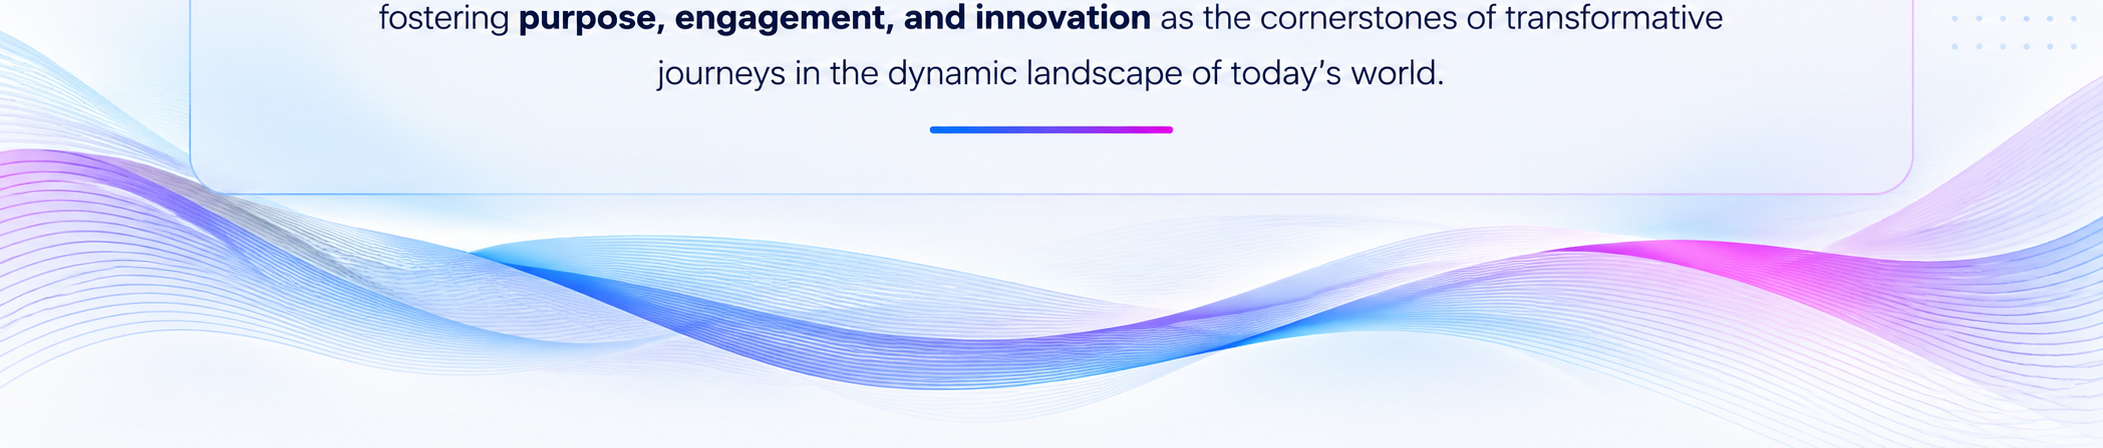
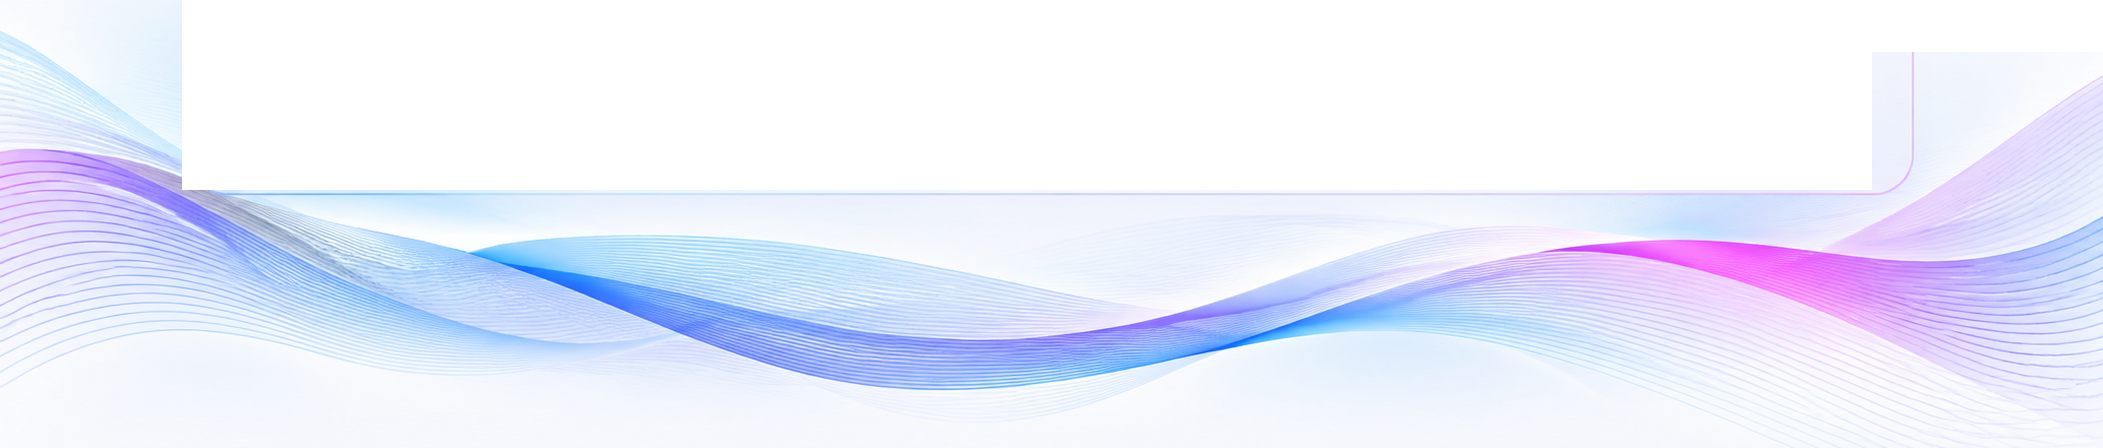
Remove duplicate frame from quote artwork

diff --git a/app/globals.css b/app/globals.css
@@ -341,7 +341,7 @@
 
 /* Pillar summary reconstructed to the supplied 2103 x 748 reference. */
 .quote-section{position:relative;isolation:isolate;width:100vw;max-width:none;height:748px;min-height:748px;margin:0;padding:0;overflow:hidden;text-align:center;background:radial-gradient(circle at 50% 34%,#fff 0,#f9fcff 48%,#edf6ff 100%)}
-.quote-section::after{content:"";position:absolute;z-index:0;left:50%;bottom:0;transform:translateX(-50%);width:2103px;height:448px;background:url('/art/home-quote-wave.png') center bottom/2103px 448px no-repeat;pointer-events:none}
+.quote-section::after{content:"";position:absolute;z-index:0;left:0;bottom:0;width:100%;height:448px;background:url('/art/home-quote-wave.png') center bottom/100% 448px no-repeat;pointer-events:none}
 .quote-section p{position:absolute;z-index:2;left:8.75%;top:152px;width:79.94%;height:329px;margin:0;padding:76px 58px 72px;border:2px solid transparent;border-radius:38px;background:linear-gradient(rgba(251,253,255,.97),rgba(251,253,255,.97)) padding-box,linear-gradient(90deg,#79baff,#b5a5ff 53%,#ef75e8) border-box;font-size:31px;line-height:1.72;font-weight:400;letter-spacing:-.012em;color:#071b4c}
 .quote-section p::before,.quote-section p::after{content:"";position:absolute;width:160px;height:128px;background-image:radial-gradient(circle,#8bc4ff 2px,transparent 2.4px);background-size:29px 29px;opacity:.72;pointer-events:none}
 .quote-section p::before{left:-169px;top:-88px}
@@ -351,17 +351,18 @@
 .quote-section .rule{position:absolute;z-index:3;left:50%;top:414px;transform:translateX(-50%);width:236px;height:8px;margin:0;border-radius:999px;background:linear-gradient(90deg,#087ef5,#6635f5 57%,#ed13d6)}
 @media(min-width:2104px){
   .quote-section p{left:calc((100vw - 2103px)/2 + 184px);width:1681px}
+  .quote-section::after{left:50%;transform:translateX(-50%);width:2103px;background-size:2103px 448px}
 }
 @media(max-width:1200px) and (min-width:769px){
   .quote-section{height:620px;min-height:620px}
-  .quote-section::after{width:100%;height:320px;background-size:auto 320px}
+  .quote-section::after{width:100%;height:320px;background-size:100% 320px}
   .quote-section p{left:6%;top:100px;width:88%;height:300px;padding:62px 42px 70px;font-size:25px;line-height:1.62;border-radius:30px}
   .quote-section p::before{left:-105px;top:-70px}.quote-section p::after{right:-105px;top:62px}
   .quote-section .rule{top:340px;width:190px;height:6px}
 }
 @media(max-width:768px){
   .quote-section{height:auto;min-height:620px;padding:70px 22px 230px}
-  .quote-section::after{width:100%;height:240px;background-size:auto 240px}
+  .quote-section::after{width:100%;height:240px;background-size:100% 240px}
   .quote-section p{position:relative;left:auto;top:auto;width:100%;height:auto;padding:44px 24px 82px;border-radius:24px;font-size:22px;line-height:1.5;letter-spacing:-.01em}
   .quote-section p::before,.quote-section p::after{display:none}
   .quote-section .rule{position:relative;left:auto;top:auto;transform:none;width:120px;height:5px;margin:-54px auto 0}
